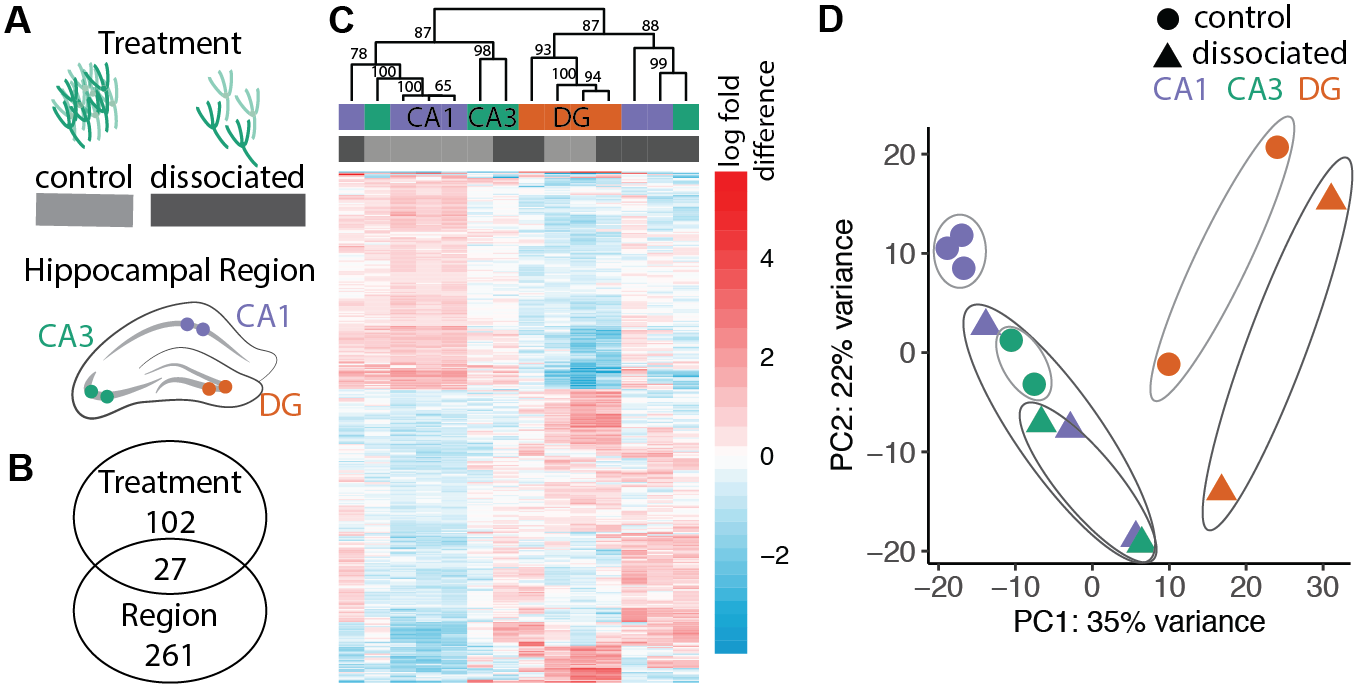
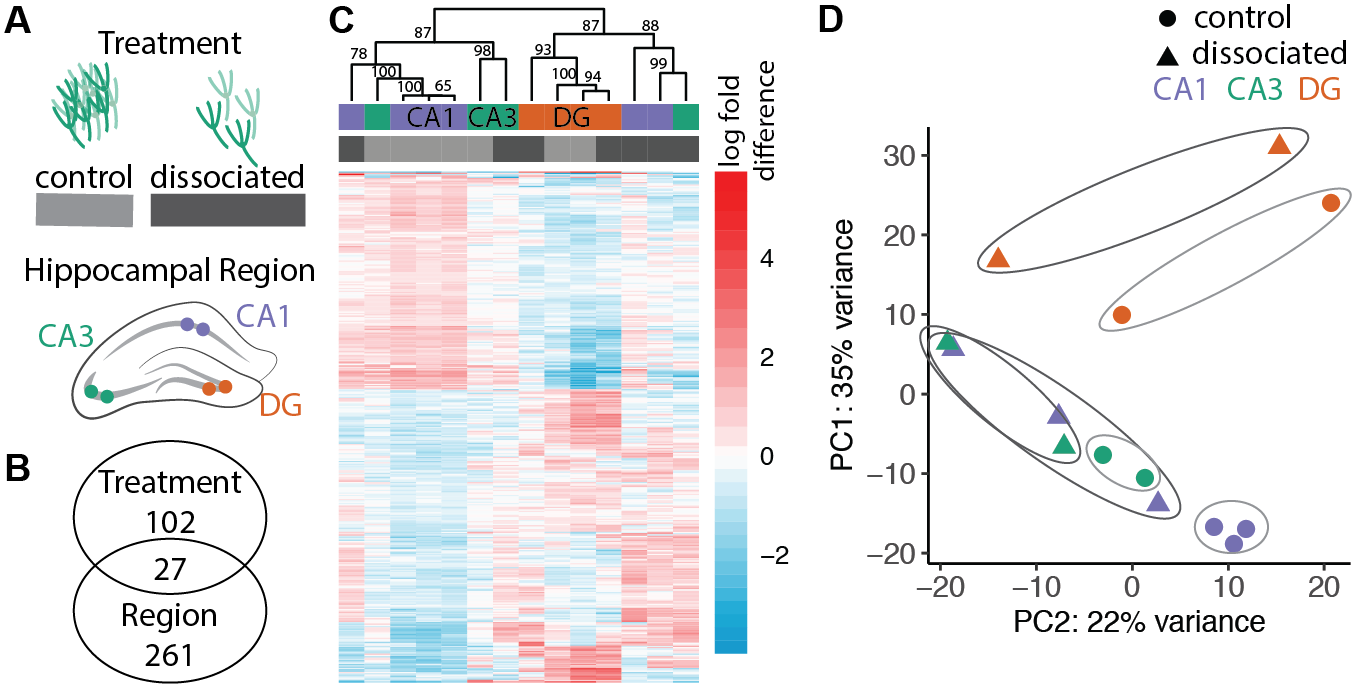
pc2 v pc1

diff --git a/markdownfiles/02_StressTest.md b/markdownfiles/02_StressTest.md
@@ -94,7 +94,7 @@ their tight clustering.
 ![](../figures/02_stresstest/PCA-2.png)
 
     # for adobe
-    myplot <- plotPC1PC2(aescolor = pcadata$Region, colorname = "Region", aesshape = pcadata$Treatment, shapename = "Treatment", colorvalues = colorvalRegion)
+    myplot <- plotPC2PC1(aescolor = pcadata$Region, colorname = "Region", aesshape = pcadata$Treatment, shapename = "Treatment", colorvalues = colorvalRegion)
     pdf(file="../figures/../figures/02_stresstest/PCA-1.pdf", width=4.5, height=3)
     plot(myplot)
     dev.off()

diff --git a/markdownfiles/01_DissociationTest.md b/markdownfiles/01_DissociationTest.md
@@ -71,7 +71,7 @@ tight clustering.
 ![](../figures/01_dissociationtest/PCA-1.png)
 
     # for adobe
-    myplot <- plotPC1PC2(aescolor = pcadata$Region, colorname = "Region", aesshape = pcadata$Treatment, shapename = "Treatment", colorvalues = colorvalRegion)
+    myplot <- plotPC2PC1(aescolor = pcadata$Region, colorname = "Region", aesshape = pcadata$Treatment, shapename = "Treatment", colorvalues = colorvalRegion)
     pdf(file="../figures/01_dissociationtest/PCA-1.pdf", width=4.5, height=3)
     plot(myplot)
     dev.off()
